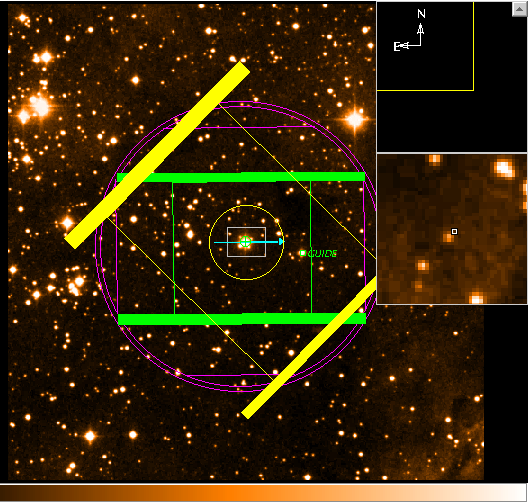
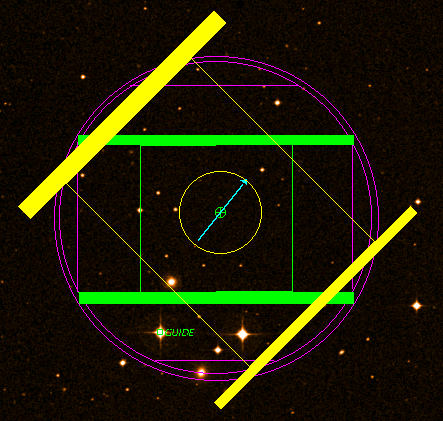
position editor update to include guide star offsets and wfcam

diff --git a/OT/cfg/ukirt/help/Position_Editor_details.html b/OT/cfg/ukirt/help/Position_Editor_details.html
@@ -72,7 +72,7 @@ there is access to ESO, CADC and NOAO Kitt Peak servers.<br>
 </table>
 <br>
 <br>
-<br>
+<hr style="width: 100%; height: 2px;"><br>
 <br>
 <table border="0" cellpadding="2" cellspacing="5" width="100%">
   <tbody>
@@ -113,16 +113,17 @@ Otherwise ignore this.<br>
   </tbody>
 </table>
 <br>
-<br>
+<hr style="width: 100%; height: 2px;"><br>
 <br>
 <table border="0" cellpadding="2" cellspacing="5" width="100%">
   <tbody>
     <tr>
       <td bgcolor="#ffffcc" valign="top">
-      <div align="center">Mode and View<br>
+      <div align="center"><span style="font-weight: bold;">Mode and View</span><br>
+      <br>
       </div>
-&nbsp; &nbsp;<img src="positioneditor_buttonbar.png" alt=""
- style="width: 71px; height: 466px;" title=""> &nbsp; &nbsp;<br>
+&nbsp; &nbsp;<img alt="" src="positioneditor_buttonbar.png"
+ style="width: 74px; height: 557px;"> &nbsp; &nbsp;<br>
       </td>
       <td valign="top"><font color="#ff0000"><u><font color="#330033">Mode
 Section</font></u><br>
@@ -164,23 +165,38 @@ affected by the edges of the dichroic to be displayed.<br>
       <br>
       <span style="color: rgb(255, 0, 0);">Irpol</span> - displays the
 location of the IRPOL vignetting for polarimetry programmes<br>
+      <br>
+      <span style="color: rgb(255, 0, 0);">WFCAM AG</span> - displays
+the field of view of the WFCAM guider.<br>
+      <br>
+      <span style="color: rgb(255, 0, 0);">Offset </span>- toggles
+display of the positions of offset locations in your jitter pattern.
+This button is only present when an offset iterator is highlighted in
+the main science programme window.<br>
       </td>
     </tr>
   </tbody>
 </table>
 <br>
 <br>
+<hr style="width: 100%; height: 2px;"><br>
+<br>
 <table border="0" cellpadding="2" cellspacing="5" width="100%">
   <tbody>
     <tr>
       <td bgcolor="#ffffcc" valign="top">
-      <div align="center">Main image window<br>
+      <div align="center"><span style="font-weight: bold;">Main image
+window - Cassegrain</span><br>
+      <br>
+      <br>
       </div>
-      <div align="center"> &nbsp;&nbsp;<img
- src="positioneditor_mainwindow.png" alt=""
- style="width: 528px; height: 502px;" title=""> &nbsp;<br>
+      <div align="center"><img alt="position editor main window"
+ src="positioneditor_mainwindow.png"
+ style="width: 443px; height: 421px;"><br>
       </div>
       <br>
+      <div style="text-align: center;"><br>
+      </div>
       </td>
       <td valign="top"><font color="#ff0000"><u><font color="#330033">Image
 Window Contents</font></u><br>
@@ -217,21 +233,72 @@ table above).</span></font><br>
       </font><font color="#33ccff">[Cyan] - science field</font> - in
 this case, the 90-arcsecond CGS4 slit, oriented east-west.<br>
       <br>
-      <span style="color: rgb(255, 204, 0);">[Yellow] - IRPOL vignetting</span><br>
+      <span style="color: rgb(255, 204, 0);">[Yellow] - <span
+ style="color: rgb(51, 0, 51);">(i) IRPOL vignetting</span></span><span
+ style="color: rgb(51, 0, 51);"> </span>and (ii) science target offset
+locations (see below)<br>
       <br>
-Notes on guide-star brightness limits are in the main preparation
-document. <br>
+      <br>
+      <span style="font-style: italic;">Notes on guide-star brightness
+limits are in the main preparation
+document. </span><br>
+      </td>
+    </tr>
+    <tr>
+      <td
+ style="vertical-align: top; text-align: center; background-color: rgb(255, 255, 204);"><img
+ alt="" src="positioneditor_offsets.png"
+ style="width: 346px; height: 323px;"></td>
+      <td style="vertical-align: top;"><span
+ style="color: rgb(51, 51, 255);"><br>
+      <br>
+      <br>
+      <br>
+[Blue]</span> - offset
+positions of the guide star (see plot to the left). To
+display both the science target offset positions and guide star offset
+positions, click on the offset iterator in your science programme.<br>
       </td>
     </tr>
   </tbody>
 </table>
 <br>
 <br>
+<hr style="width: 100%; height: 2px;"><br>
+<br>
+<table style="width: 100%;" border="0" cellpadding="2" cellspacing="5">
+  <tbody>
+    <tr>
+      <td
+ style="vertical-align: top; text-align: center; background-color: rgb(255, 255, 204);"><span
+ style="font-weight: bold;">Main window - Wide Field</span><br
+ style="font-weight: bold;">
+      <br>
+      <img alt="" src="positioneditor_mainwfcam.png"
+ style="width: 378px; height: 380px;"><br>
+      </td>
+      <td style="vertical-align: middle;"><span
+ style="color: rgb(51, 51, 255);">[Blue]</span> - chips 1 - 4 (from
+bottom right, clockwise)<br>
+      <br>
+      <span style="color: rgb(204, 51, 204);">[Purple]</span> - WFCAM
+autoguider area<br>
+      <br>
+      <br>
+      <br>
+      </td>
+    </tr>
+  </tbody>
+</table>
+<br>
+<br>
+<hr style="width: 100%; height: 2px;"><br>
+<br>
 <table border="0" cellpadding="2" cellspacing="5" width="100%">
   <tbody>
     <tr>
       <td bgcolor="#ffffcc" valign="top">
-      <div align="center">Pan and Zoom<br>
+      <div align="center"><span style="font-weight: bold;">Pan and Zoom</span><br>
       </div>
       <div align="center"> &nbsp;&nbsp;<img
  src="positioneditor_panzoom.png" alt="" height="313" width="162">
